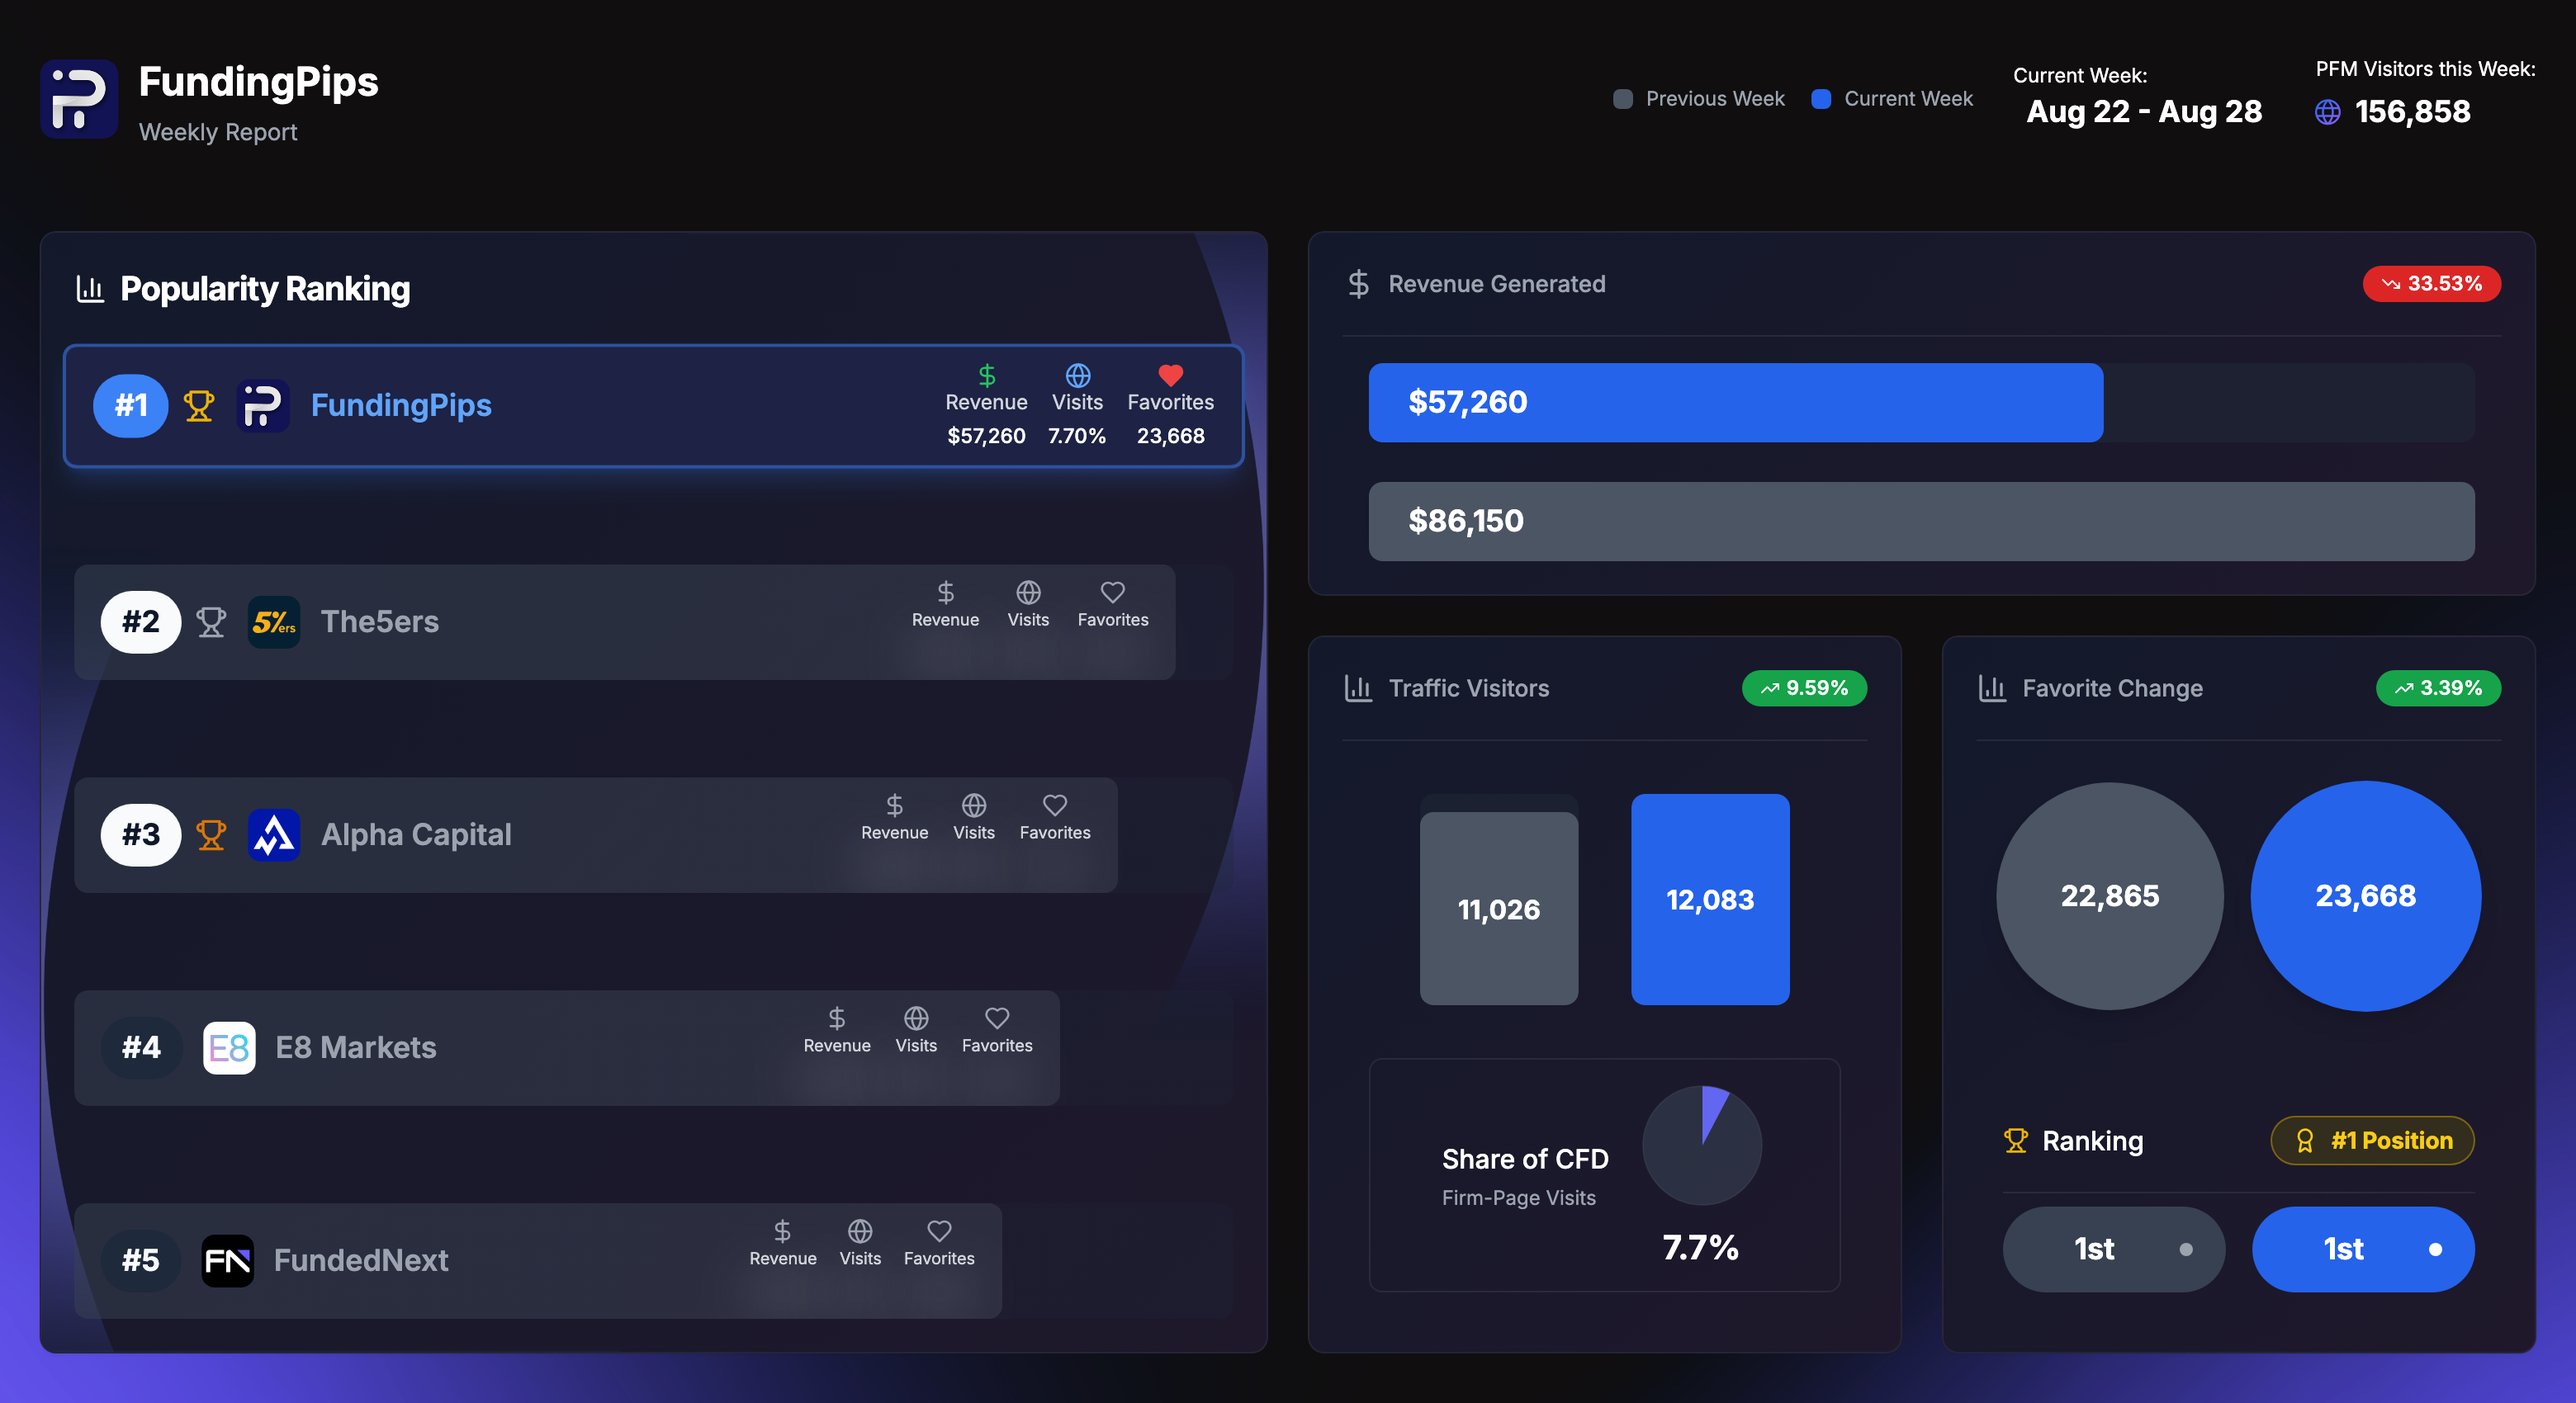
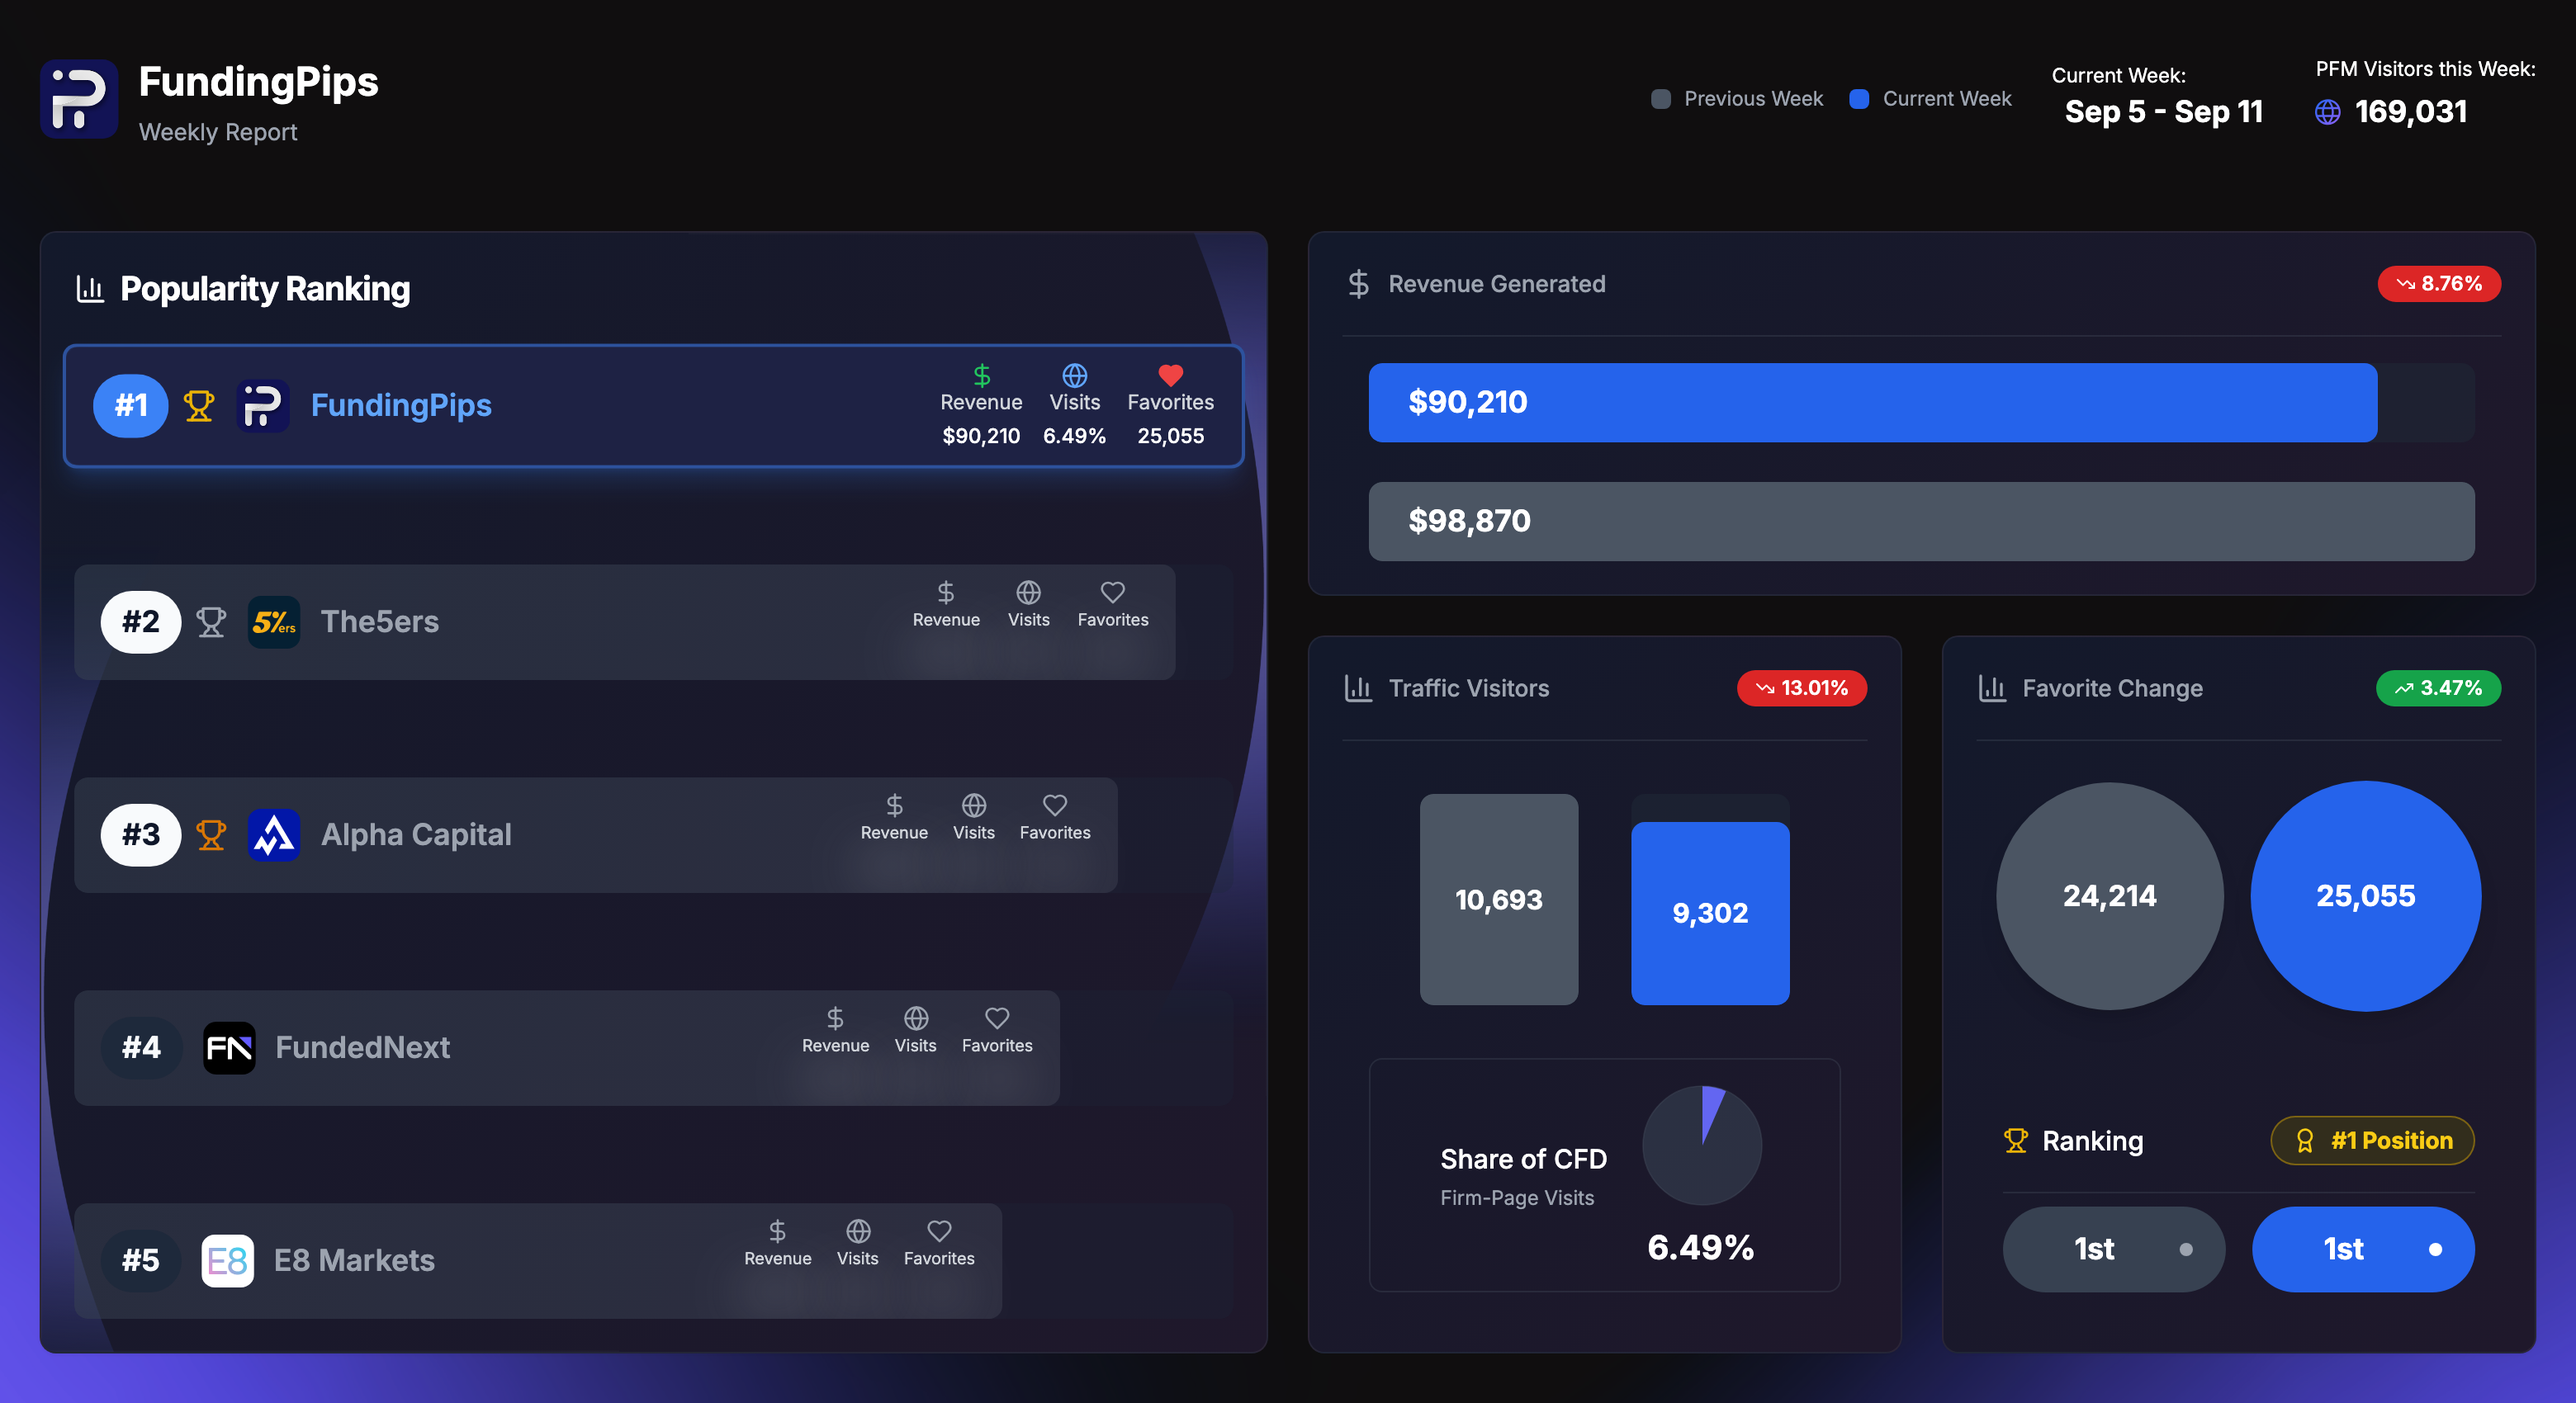
Update dashboards and data files
- Updated weekly data files with latest information
- Regenerated all dashboard and futures images
- Updated global configuration settings

🤖 Generated with [Claude Code](https://claude.ai/code)

diff --git a/lib/globalConfig.ts b/lib/globalConfig.ts
@@ -5,22 +5,22 @@ export type DashboardCategory = 'prop-trading' | 'futures'
 
 export const globalConfig = {
   // Week period displayed in header
-  currentWeek: 'Aug 22 - Aug 28',
+  currentWeek: 'Sep 5 - Sep 11',
   
   // Total visitors for the platform (not per company)
-  pfmVisitors: 156858,
+  pfmVisitors: 169031,
   
   // Category-specific configurations
   categories: {
     'prop-trading': {
       name: 'Prop Trading',
       csvFile: 'data.csv',
-      visitors: 156858,
+      visitors: 169031,
     },
     'futures': {
       name: 'Futures',
       csvFile: 'datafutures.csv', 
-      visitors: 156858, // Using same value as CFD
+      visitors: 169031, // Using same value as CFD
     }
   },
   
